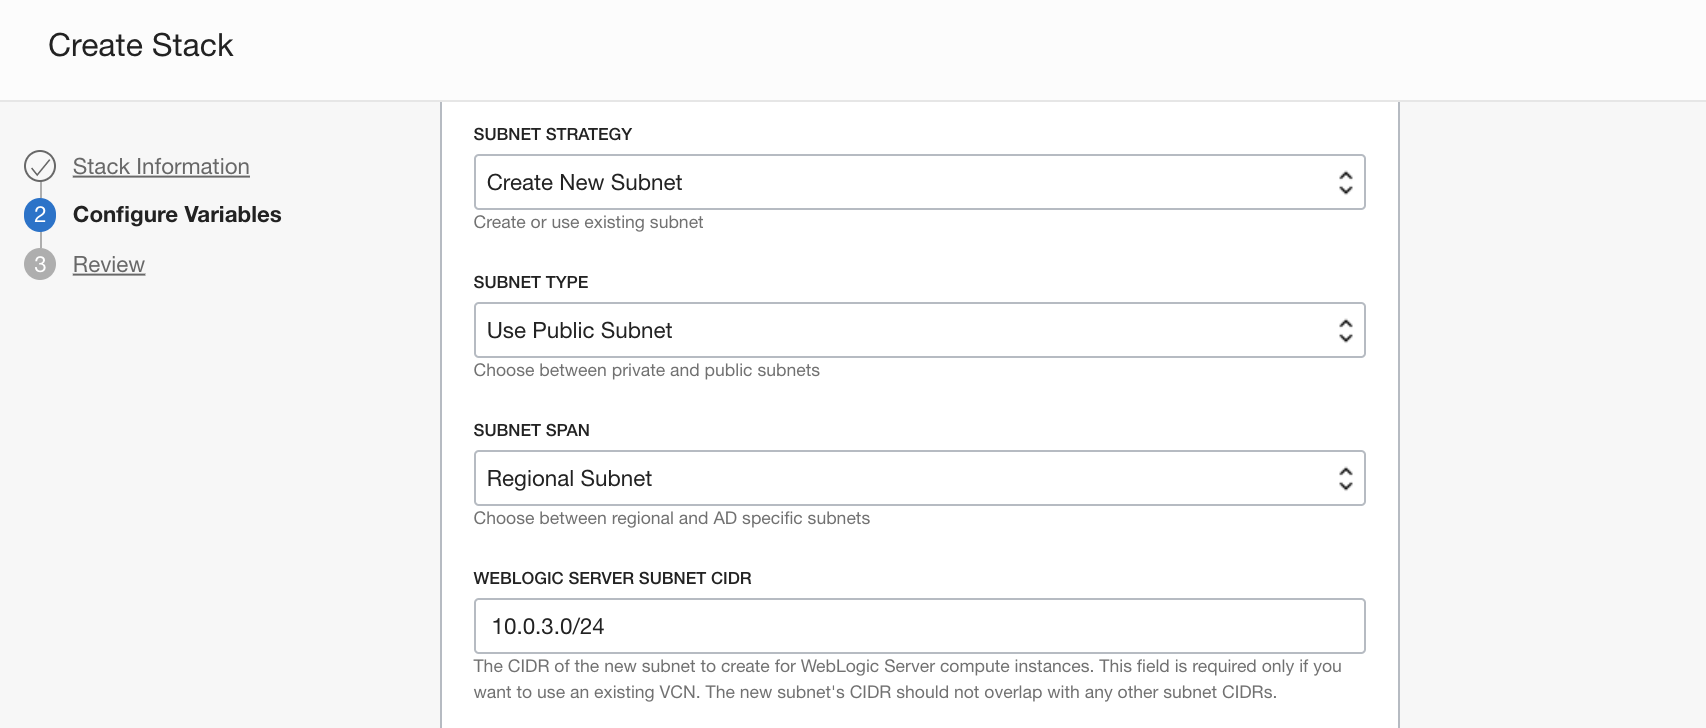
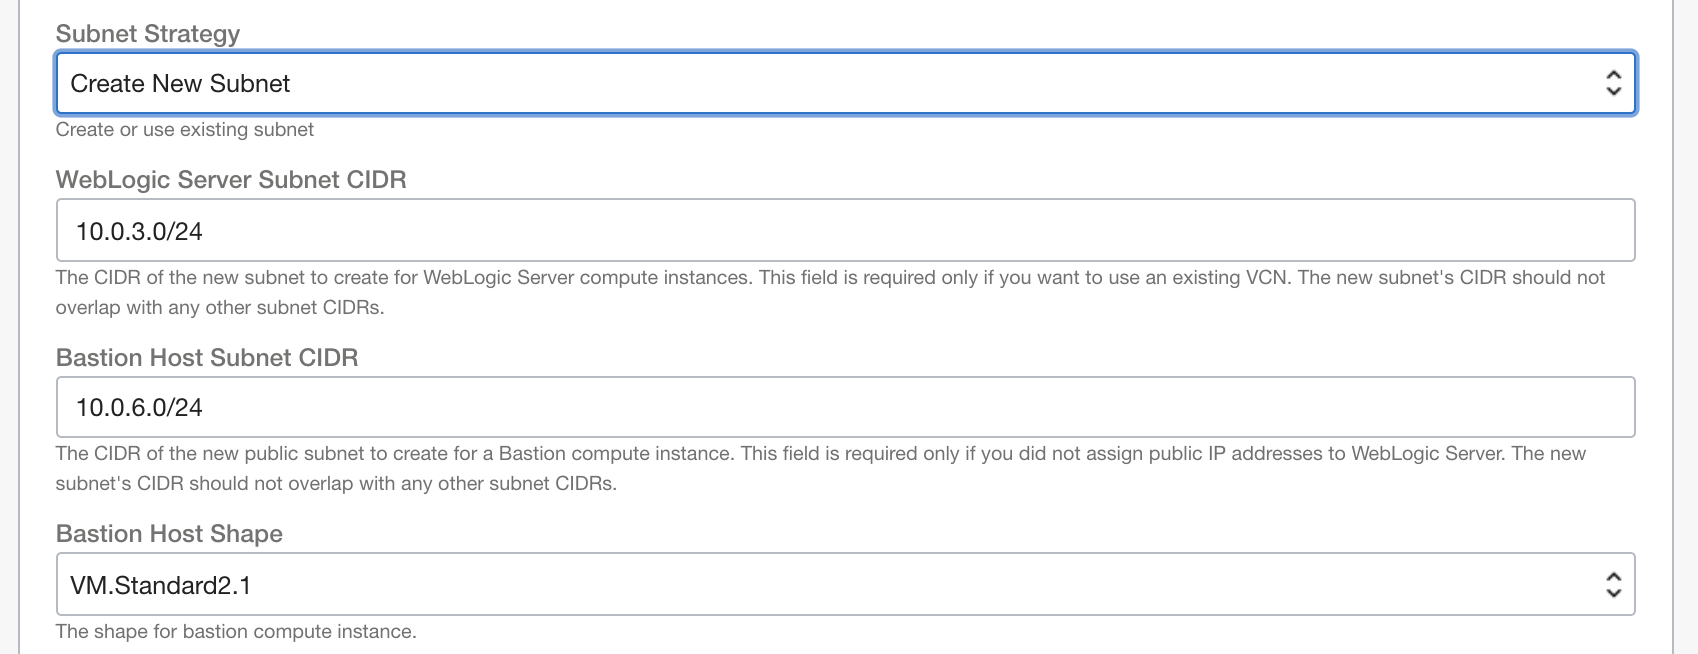
mandatory private subnet

diff --git a/AppDev/wls/ll-jrf/wlsforocijrf.md b/AppDev/wls/ll-jrf/wlsforocijrf.md
@@ -109,14 +109,11 @@ This Hands on Lab will go through the process of creating a JRF type of WebLogic
   - For the Subnet Strategy:
 
     - *Create New Subnet*
-    - *Use Public Subnet*
-    - *Regional Subnet*
-
-    ![](images/wlsvcn2.png)
-
-  - Tick to **Enable Access to Administration Console**:
+    - Leave other parameters as default
   
-    ![image-20210119080943656](images/wlsvcn4.png)
+  ![](images/wlsvcn2.png)
+  
+  
   
   - Tick to **Provision Load Balancer**
   
@@ -206,12 +203,134 @@ This Hands on Lab will go through the process of creating a JRF type of WebLogic
   - **Sample Application URL** (we can can try it at this moment, but the out of the box sample application won't load as we need to finish the SSL configuration of the Load Balancer)
   - **WebLogic Server Administration Console**
 
-![](images/wlscnonjrfwithenv/image210.png)
+![](images/image210.png)
 
 
 
-- Let's check the **WLS admin console** of the newly created WebLogic Server; as we have chosen a Public Subnet for the WLS network, both Compute instances that have been created have public IPs associated.  Use the Console URL provided in the **Outputs** section as shown above
-- Login with **weblogic** username and the provided password:
+### Access the WebLogic Admin Console
+
+To access the WebLogic Admin Console we need first to connect to the Bastion Host and create a SSH tunnel from your PC to the Bastion.
+
+If you used Cloud Shell for creating the SSH private and public key pair, you'd need to copy it to local machine. In the Cloud Shell Console, go to `keys` folder and print the private key:
+
+![](images/image-400.png)
+
+
+
+Use `CTRL+Insert` to copy the entire output including the last line:
+
+```
+-----BEGIN RSA PRIVATE KEY-----
[3 lines of base64/hex data omitted]
+....
+
[2 lines of base64/hex data omitted]
+zcdaHbqFbR1gDVa5xZ1s+htPM2lW5UQDVvdpcALefZqmQgYAQV6jZNUDyeA=
+-----END RSA PRIVATE KEY-----
+```
+
+
+
+Save the content on local machine, in a file with the same name, as in example **weblogic_ssh_key**.
+
+
+
+Next, we need to change the private key file permissions.
+
+On a linux / mac platform:
+
+```
+$ chmod 600 weblogic_ssh_key
+```
+
+
+
+On a Windows platform, open **Command Prompt** (cmd) and run below commands to make the file readable only by current user:
+
+```
+> icacls .\weblogic_ssh_key /inheritance:r
+> icacls .\weblogic_ssh_key /grant:r "%username%":"(R)"
+```
+
+
+
+For both Windows commands you should get an output like:
+
+```
+processed file: .\weblogic_ssh_key
+Successfully processed 1 files; Failed processing 0 files
+```
+
+
+
+For Windows we're taking this approach for using **Windows Power Shell** instead of Putty. If you enjoy more using Putty, you'd need to use PuttyGen to import the private key and save it in .ppk format.
+
+
+
+Next, on your local computer, open an SSH tunnel to an unused port on the bastion compute instance as the `opc` user. For example, you can use port `1088` for SOCKS proxy. Specify the `-D` option to use dynamic port forwarding. 
+
+The SSH command format is:
+
+```
+$ ssh -C -D <port_for_socks_proxy> -i <path_to_private_key> opc@<bastion_public_ip>
+```
+
+
+
+For example:
+
+```
+ssh -C -D 1088 -i weblogic_ssh_key opc@130.61.39.170
+```
+
+
+
+For Windows, use **Windows Power Shell** to run the SSH command.
+
+![](images/image-410.png)
+
+
+
+In another Bash Console (or Command Prompt for Windows) you can check that the tunnel port has been open on your computer:
+
+```
+$ netstat -tln | grep 1088
+```
+
+
+
+On Windows:
+
+```
+> netstat -a
+```
+
+(look for `TCP    127.0.0.1:1088` line)
+
+
+
+Now all the local machine network traffic proxy-ed through 1088 port will be tunneled through the SSH connection to the bastion host.
+
+Open **Firefox** browser, go to  *Options*, scroll down to *Network Settings* and configure a Proxy to access Internet. Setup a *Manual proxy configuration*, use *localhost* for **SOCKS Host** and *1088* port for **SOCKS Port**. Leave HTTP Proxy and FTP Proxy untouched:
+
+![](images/image-420.png) 
+
+
+
+Once done that, open a new browser tab and navigate to WebLogic Admin Console:
+
+```
+http://<private load balancer ip>/console
+```
+
+
+
+You find the full URL in the Terraform Apply Job Logs Output as showed above. Login with `weblogic` and the password setup for the WebLogic Admin Secret in the prerequisites lab:
+
+
 
 ![](images/wlscnonjrfwithenv/image220.png)
 
